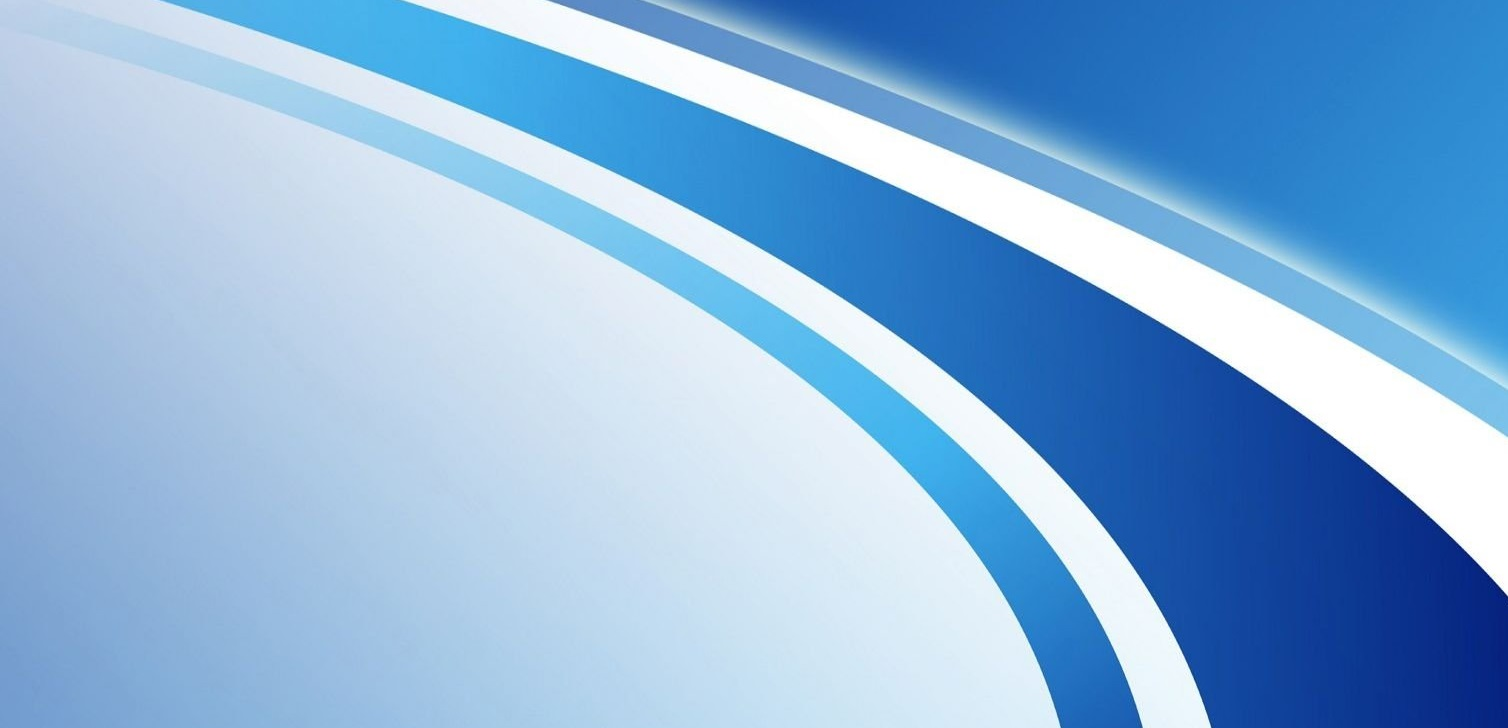
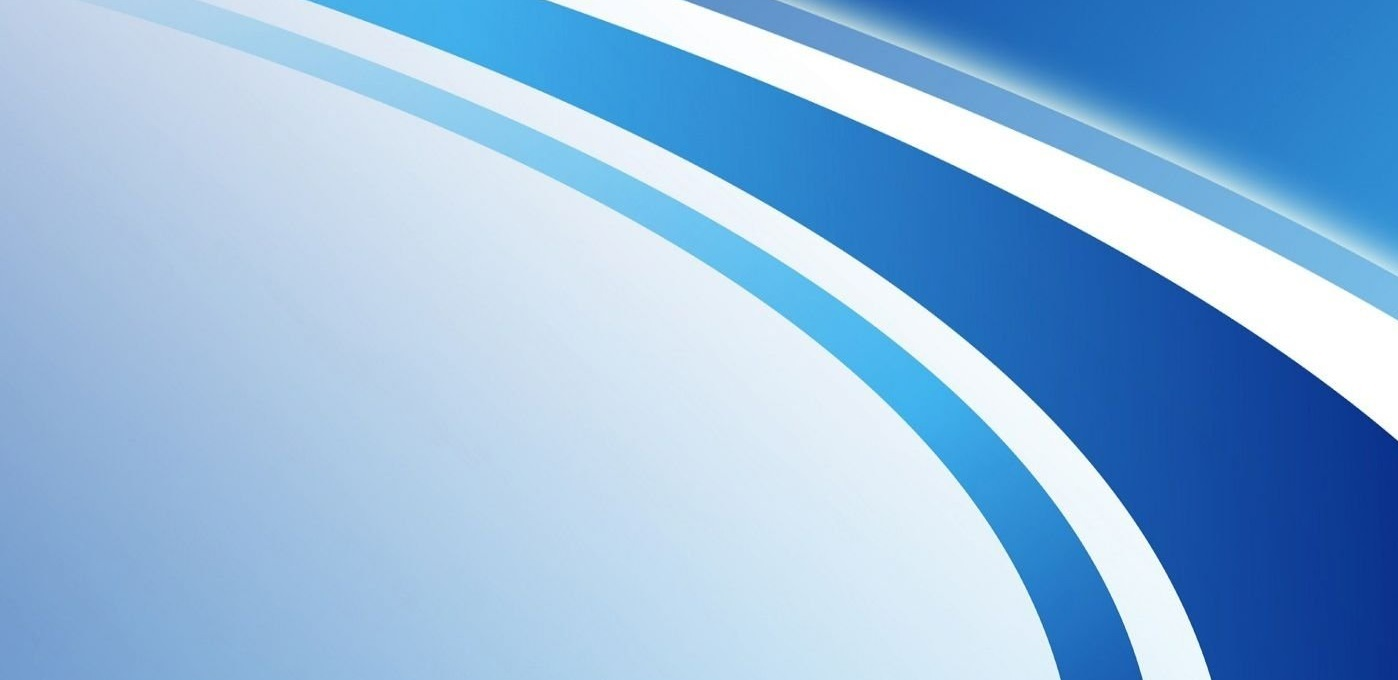
Кнопки MainView

diff --git a/ExecutiveDocumentation/Views/MainView.xaml b/ExecutiveDocumentation/Views/MainView.xaml
@@ -10,7 +10,7 @@ xmlns:local="clr-namespace:ExecutiveDocumentation.Views"
         Height="{Binding SystemParameters.PrimaryScreenHeight}" Width="{Binding SystemParameters.PrimaryScreenWidth}" 
         Style="{StaticResource ResourceKey=WindowStyle}"
          >
-  
+
 
     <Window.DataContext>
         <vm:MainViewVM x:Name="MainViewVM"></vm:MainViewVM>
@@ -22,13 +22,19 @@ xmlns:local="clr-namespace:ExecutiveDocumentation.Views"
             <ColumnDefinition Width='Auto' />
         </Grid.ColumnDefinitions>
 
-        <StackPanel Orientation="Vertical"> 
-            <Border DockPanel.Dock="Top" Height="45" HorizontalAlignment="Right" Margin="0,10,10,0">
-           
-                 
-                    <StackPanel Orientation="Horizontal"
-                     HorizontalAlignment="Right"
-                     >
+        <StackPanel Orientation="Vertical"  HorizontalAlignment="Stretch">
+            
+            
+            <UniformGrid Margin="20,10,20,0" Rows="1" VerticalAlignment="Top"
+>
+                <Image Grid.Column="0" Source ="pack://application:,,,/Resources/logoNGM.png" 
+                   VerticalAlignment="Top"
+                   Width="150"  
+                   Height ="100"
+                   HorizontalAlignment="Left"/>
+
+                <StackPanel Grid.Column="1" Orientation="Horizontal"  HorizontalAlignment ="Right" VerticalAlignment="Top"
+     >
                     <Button Style="{StaticResource ResourceKey=MinimizeBtnStyle}"
                      Command="{Binding WindowMinimizeCommand}"
                      />
@@ -39,12 +45,8 @@ xmlns:local="clr-namespace:ExecutiveDocumentation.Views"
                      Command="{Binding CloseWindowCommand}"
                      />
                 </StackPanel>
-           
-        </Border>
-
-
-
-
+            </UniformGrid>
+            
             <StackPanel Orientation="Horizontal" Height="80"  Margin="0,20,20,0">
 
                 <Button
@@ -86,44 +88,44 @@ xmlns:local="clr-namespace:ExecutiveDocumentation.Views"
                           SelectedIndex="0">
                     </ListBox>
 
-               
-            </StackPanel>
 
-            <StackPanel Orientation="Vertical"   
+                </StackPanel>
+
+                <StackPanel Orientation="Vertical"   
                         Margin="20, 0, 0,0"
                         >
-                <Label Content="Данные объекта" 
+                    <Label Content="Данные объекта" 
                    Height="45"/>
 
-                <TextBlock 
+                    <TextBlock 
                     Text="{Binding SelectObject.ObjectName}"
                      TextWrapping="Wrap" 
                     Height="50" Width="400"/>
 
-                <StackPanel Orientation="Horizontal" 
+                    <StackPanel Orientation="Horizontal" 
                            >
-                    <Label Content="Заказчик" 
+                        <Label Content="Заказчик" 
                         Height="50"/>
-                    <TextBlock 
+                        <TextBlock 
                         Margin="20, 0, 0,0"
                          Text="{Binding SelectObject.Customer}"
                           TextWrapping="Wrap" 
-                         Height="50" />      
-                </StackPanel>
-                <StackPanel Orientation="Horizontal" 
+                         Height="50" />
+                    </StackPanel>
+                    <StackPanel Orientation="Horizontal" 
             >
-                    <Label Content="Шифр проекта" 
+                        <Label Content="Шифр проекта" 
          Height="50"/>
-                    <TextBlock 
+                        <TextBlock 
          Margin="20, 0, 0,0"
           Text="{Binding SelectObject.ProjectForObject}"
            TextWrapping="Wrap" 
           Height="50" />
+                    </StackPanel>
+
                 </StackPanel>
-
             </StackPanel>
-        </StackPanel>
 
-    </StackPanel>
-        </Grid>
+        </StackPanel>
+    </Grid>
 </Window>

diff --git a/ExecutiveDocumentation/Resources/WindowBorderStyleOtersViews.xaml b/ExecutiveDocumentation/Resources/WindowBorderStyleOtersViews.xaml
@@ -2,7 +2,7 @@
                     xmlns:x="http://schemas.microsoft.com/winfx/2006/xaml"
                     xmlns:fa="http://schemas.fontawesome.io/icons/">
 
-    <ImageBrush x:Key="WindBackgraund" ImageSource="pack://application:,,,/Resources/fon.jpg" />
+    <ImageBrush x:Key="WindBackgraund" ImageSource="pack://application:,,,/Resources/fon1.jpg" />
 
 
     <Style x:Key="WindowStyle" TargetType="{x:Type Window}">
@@ -14,12 +14,7 @@
                 Value="Times New Roman" />
         <Setter Property="FontSize" Value="18" />
         <Setter Property="TextElement.Foreground" Value="#1E90FF" />
-        <Setter Property="Background" >
-            
-             <Setter.Value>
-                <ImageBrush ImageSource="pack://application:,,,/Resources/fon.jpg" />
-            </Setter.Value> 
-        </Setter>
+       
         <Setter Property="Template">
             <Setter.Value>
                 <ControlTemplate TargetType="Window">
@@ -39,6 +34,7 @@
 
     
     <Style TargetType="Button" x:Key="MinimizeBtnStyle">
+   
         <Setter Property="Width" Value="30" />
         <Setter Property="Height" Value="30" />
         <Setter Property="Margin" Value="10,0,5,0" />
@@ -59,6 +55,7 @@
     </Style>
 
     <Style TargetType="Button" x:Key="MaximizeBtnStyle">
+      
         <Setter Property="Width" Value="30" />
         <Setter Property="Height" Value="30" />
         <Setter Property="Margin" Value="10,0,5,0" />
@@ -76,9 +73,10 @@
     </Style>
 
     <Style TargetType="Button" x:Key="CloseWindowBtnStyle">
+        
         <Setter Property="Width" Value="30" />
         <Setter Property="Height" Value="30" />
-        <Setter Property="Margin" Value="10,0,5,0" />
+        <Setter Property="Margin" Value="10,0,0,0" />
         <Setter Property="BorderThickness" Value="1,1,1,1" />
         <Setter Property="Template">
             <Setter.Value>
